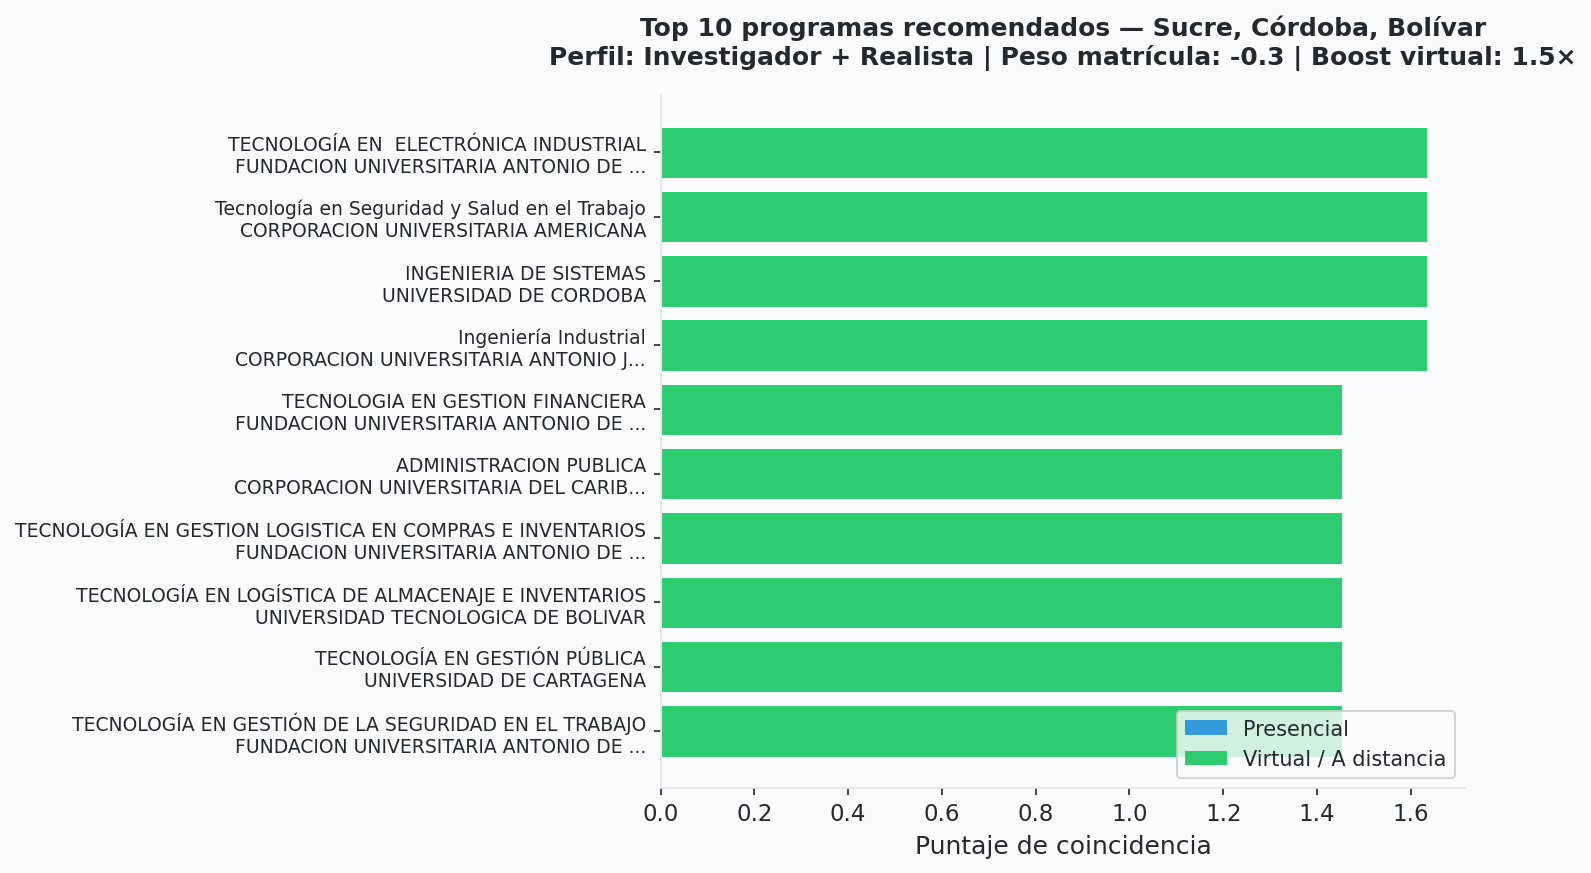
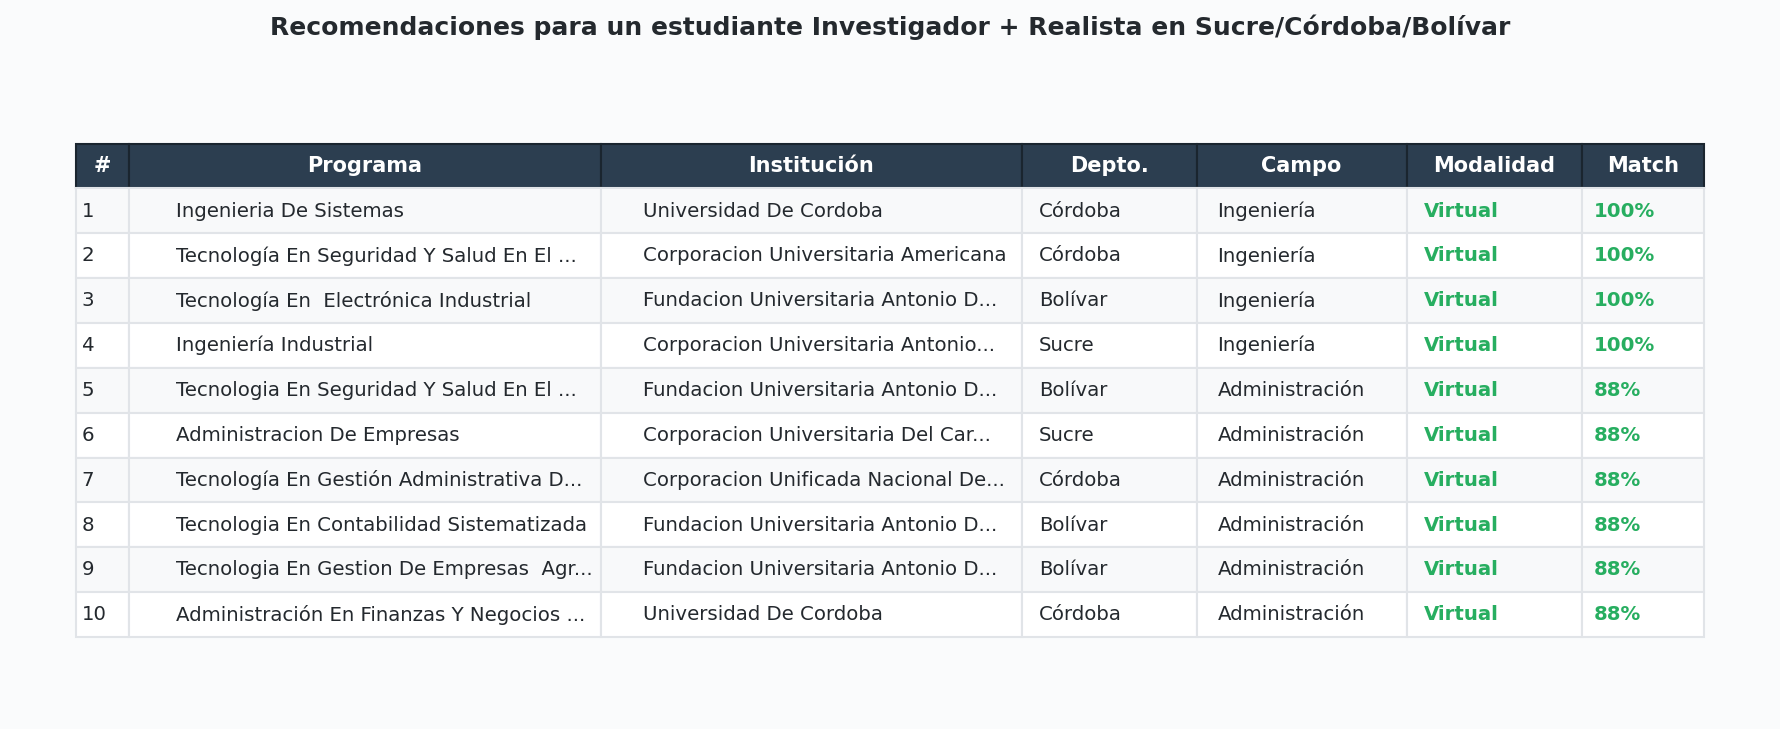
Improve showcase plots, install instructions, Bayes explainer
- Regional chart: absolute program counts (gap is undeniable)
- Recommendations: clean table with program/institution/dept/field/match%
- Install: GitHub-based install (no registry secrets needed yet)
- Both READMEs updated consistently

diff --git a/scripts/generate-showcase.py b/scripts/generate-showcase.py
@@ -170,71 +170,89 @@ def plot_cine_distribution():
 
 
 def plot_regional_comparison():
-    """Programs in San Jorge y La Mojana region vs national."""
+    """Show the access gap: programs per CINE field, region vs rest of country."""
+    import polars as pl
+
     df = Programs.active()
     region_depts = ["Sucre", "Córdoba", "Bolívar"]
 
-    region = df.filter(
-        df.get_column("departamento").is_in(region_depts)
-    )
-    national = df
+    region = df.filter(pl.col("departamento").is_in(region_depts))
+    rest = df.filter(~pl.col("departamento").is_in(region_depts))
 
-    # Count by nivel_formacion
-    niveles = ["Universitario", "Tecnológico", "Especialización universitaria",
-               "Maestría", "Formación técnica profesional", "Doctorado"]
-
-    region_counts = {}
-    national_counts = {}
-    for n in niveles:
-        region_counts[n] = len(region.filter(region.get_column("nivel_formacion") == n))
-        national_counts[n] = len(national.filter(national.get_column("nivel_formacion") == n))
-
-    # Normalize to percentages
-    region_total = sum(region_counts.values())
-    national_total = sum(national_counts.values())
-
-    short_niveles = {
-        "Universitario": "Universitario",
-        "Tecnológico": "Tecnológico",
-        "Especialización universitaria": "Especialización",
-        "Maestría": "Maestría",
-        "Formación técnica profesional": "Técnico\nprofesional",
-        "Doctorado": "Doctorado",
+    short = {
+        "Administración de Empresas y Derecho": "Administración\ny Derecho",
+        "Ingeniería, Industria y Construcción": "Ingeniería",
+        "Ciencias Sociales, Periodismo e Información": "Ciencias Sociales",
+        "Salud y Bienestar": "Salud",
+        "Arte y Humanidades": "Arte y Humanidades",
+        "Tecnologías de la Información y la Comunicación (TIC)": "TIC",
+        "Agropecuario, Silvicultura, Pesca y Veterinaria": "Agropecuario",
+        "Ciencias Naturales, Matemáticas y Estadística": "Ciencias Naturales",
+        "Educación": "Educación",
+        "Servicios": "Servicios",
     }
 
-    fig, ax = plt.subplots(figsize=(10, 5))
-    x = np.arange(len(niveles))
-    w = 0.35
+    # Get all fields, sorted by national count
+    nat_counts = (
+        rest.group_by("cine_amplio").len()
+        .sort("len", descending=True)
+    )
+    fields = [f for f in nat_counts.get_column("cine_amplio").to_list()
+              if f in short]
 
-    r_pcts = [region_counts[n] / region_total * 100 for n in niveles]
-    n_pcts = [national_counts[n] / national_total * 100 for n in niveles]
+    reg_map = dict(
+        region.group_by("cine_amplio").len()
+        .select("cine_amplio", "len").iter_rows()
+    )
+    rest_map = dict(
+        rest.group_by("cine_amplio").len()
+        .select("cine_amplio", "len").iter_rows()
+    )
 
-    bars1 = ax.bar(x - w/2, n_pcts, w, label=f"Nacional ({national_total:,})",
-                   color="#3498db", alpha=0.85, edgecolor="white")
-    bars2 = ax.bar(x + w/2, r_pcts, w,
-                   label=f"Sucre + Córdoba + Bolívar ({region_total:,})",
-                   color="#e74c3c", alpha=0.85, edgecolor="white")
+    labels = [short[f] for f in fields]
+    reg_vals = [reg_map.get(f, 0) for f in fields]
+    rest_vals = [rest_map.get(f, 0) for f in fields]
 
-    ax.set_xticks(x)
-    ax.set_xticklabels([short_niveles[n] for n in niveles], fontsize=10)
-    ax.set_ylabel("% de programas activos", fontsize=12)
-    ax.set_title("Distribución por nivel de formación: región vs. nacional",
-                 fontsize=14, fontweight="bold", pad=15)
-    ax.legend(fontsize=11, loc="upper right")
+    fig, ax = plt.subplots(figsize=(10, 5.5))
+    y = np.arange(len(fields))
+    h = 0.35
+
+    bars1 = ax.barh(y - h/2, rest_vals, h,
+                     label=f"Resto del país ({len(rest):,} programas)",
+                     color="#3498db", alpha=0.85, edgecolor="white")
+    bars2 = ax.barh(y + h/2, reg_vals, h,
+                     label=f"Sucre + Córdoba + Bolívar ({len(region):,} programas)",
+                     color="#e74c3c", alpha=0.85, edgecolor="white")
+
+    ax.set_yticks(y)
+    ax.set_yticklabels(labels, fontsize=10)
+    ax.invert_yaxis()
+    ax.set_xlabel("Programas activos", fontsize=12)
+    ax.xaxis.set_major_formatter(ticker.FuncFormatter(lambda x, p: f"{x:,.0f}"))
     ax.spines["top"].set_visible(False)
     ax.spines["right"].set_visible(False)
-    ax.yaxis.set_major_formatter(ticker.FuncFormatter(lambda x, p: f"{x:.0f}%"))
+
+    # Add count labels on regional bars
+    for bar, val in zip(bars2, reg_vals):
+        ax.text(val + 30, bar.get_y() + bar.get_height() / 2,
+                str(val), va="center", fontsize=9, color="#e74c3c", fontweight="bold")
+
+    ax.legend(fontsize=10, loc="lower right")
+    ax.set_title(
+        "Brecha de acceso: 3 departamentos, 3.5M de personas, 6% de los programas",
+        fontsize=13, fontweight="bold", pad=15
+    )
 
     plt.tight_layout()
     fig.savefig(OUT / "regional-comparison.png", dpi=150, bbox_inches="tight",
                 facecolor=BG, edgecolor="none")
     plt.close()
-    print(f"  regional-comparison.png — region: {region_total:,}, national: {national_total:,}")
-    return region_depts, region_total
+    print(f"  regional-comparison.png — region: {len(region):,}, rest: {len(rest):,}")
+    return region_depts, len(region)
 
 
 def plot_recommendations(profile, region_depts):
-    """Show top recommendations as a horizontal bar chart."""
+    """Show top recommendations as a styled table."""
     import polars as pl
 
     results = recommend(
@@ -246,49 +264,88 @@ def plot_recommendations(profile, region_depts):
         limit=10,
     )
 
-    names = results.get_column("nombre_programa").to_list()
-    scores = results.get_column("score").to_list()
-    institutions = results.get_column("nombre_institucion").to_list()
-    modalities = results.get_column("modalidad").to_list()
+    max_score = results.get_column("score").max()
 
-    # Shorten names
-    short_names = []
-    for n, inst in zip(names, institutions):
-        short_inst = inst[:35] + "..." if len(inst) > 38 else inst
-        label = f"{n}\n{short_inst}"
-        short_names.append(label)
+    # Build table data
+    rows_data = []
+    for i, row in enumerate(results.iter_rows(named=True)):
+        name = row["nombre_programa"].title()
+        if len(name) > 40:
+            name = name[:38] + "..."
+        inst = row["nombre_institucion"].title()
+        if len(inst) > 35:
+            inst = inst[:33] + "..."
+        dept = row["departamento"]
+        field = row["cine_amplio"]
+        # Shorten CINE field
+        field_short = {
+            "Ingeniería, Industria y Construcción": "Ingeniería",
+            "Administración de Empresas y Derecho": "Administración",
+            "Salud y Bienestar": "Salud",
+            "Tecnologías de la Información y la Comunicación (TIC)": "TIC",
+            "Ciencias Naturales, Matemáticas y Estadística": "Ciencias Nat.",
+            "Ciencias Sociales, Periodismo e Información": "Ciencias Soc.",
+            "Agropecuario, Silvicultura, Pesca y Veterinaria": "Agropecuario",
+            "Arte y Humanidades": "Arte",
+            "Educación": "Educación",
+            "Servicios": "Servicios",
+        }.get(field, field[:15])
+        mod = "Virtual" if row["modalidad"] in ("Virtual", "A distancia") else "Presencial"
+        pct = int(row["score"] / max_score * 100)
+        rows_data.append([f"{i+1}", name, inst, dept, field_short, mod, f"{pct}%"])
 
-    fig, ax = plt.subplots(figsize=(10, 6))
+    columns = ["#", "Programa", "Institución", "Depto.", "Campo", "Modalidad", "Match"]
+    col_widths = [0.03, 0.27, 0.24, 0.10, 0.12, 0.10, 0.07]
 
-    colors = ["#2ecc71" if m in ("Virtual", "A distancia") else "#3498db"
-              for m in modalities]
+    fig, ax = plt.subplots(figsize=(12, 5))
+    ax.axis("off")
 
-    bars = ax.barh(range(len(scores)), scores, color=colors,
-                   edgecolor="white", linewidth=0.5)
-    ax.set_yticks(range(len(short_names)))
-    ax.set_yticklabels(short_names, fontsize=9)
-    ax.invert_yaxis()
-    ax.set_xlabel("Puntaje de coincidencia", fontsize=12)
-    ax.spines["top"].set_visible(False)
-    ax.spines["right"].set_visible(False)
+    # Header
+    header_colors = ["#2c3e50"] * len(columns)
+    table = ax.table(
+        cellText=rows_data,
+        colLabels=columns,
+        colWidths=col_widths,
+        cellLoc="left",
+        loc="center",
+    )
+    table.auto_set_font_size(False)
+    table.set_fontsize(9.5)
+    table.scale(1, 1.6)
 
-    # Legend
-    from matplotlib.patches import Patch
-    legend_elements = [
-        Patch(facecolor="#3498db", label="Presencial"),
-        Patch(facecolor="#2ecc71", label="Virtual / A distancia"),
-    ]
-    ax.legend(handles=legend_elements, loc="lower right", fontsize=10)
+    # Style header
+    for j in range(len(columns)):
+        cell = table[0, j]
+        cell.set_facecolor("#2c3e50")
+        cell.set_text_props(color="white", fontweight="bold", fontsize=10)
+        cell.set_edgecolor("#1a252f")
 
-    ax.set_title("Top 10 programas recomendados — Sucre, Córdoba, Bolívar\n"
-                 "Perfil: Investigador + Realista | Peso matrícula: -0.3 | Boost virtual: 1.5×",
-                 fontsize=12, fontweight="bold", pad=15)
+    # Style data rows
+    for i in range(len(rows_data)):
+        bg = "#f8f9fa" if i % 2 == 0 else "white"
+        for j in range(len(columns)):
+            cell = table[i + 1, j]
+            cell.set_facecolor(bg)
+            cell.set_edgecolor("#e1e4e8")
+            # Color the match percentage
+            if j == len(columns) - 1:
+                cell.set_text_props(fontweight="bold", color="#27ae60")
+            # Color virtual/presencial
+            if j == len(columns) - 2:
+                mod_val = rows_data[i][j]
+                color = "#27ae60" if mod_val == "Virtual" else "#3498db"
+                cell.set_text_props(color=color, fontweight="bold")
+
+    ax.set_title(
+        "Recomendaciones para un estudiante Investigador + Realista en Sucre/Córdoba/Bolívar",
+        fontsize=12, fontweight="bold", pad=15, color=TEXT_COLOR
+    )
 
     plt.tight_layout()
     fig.savefig(OUT / "recommendations.png", dpi=150, bbox_inches="tight",
                 facecolor=BG, edgecolor="none")
     plt.close()
-    print(f"  recommendations.png — {len(scores)} programs")
+    print(f"  recommendations.png — {len(rows_data)} programs (table)")
 
 
 def plot_adaptive_convergence():

diff --git a/README.md b/README.md
@@ -57,14 +57,15 @@ Los priors por matrícula penalizan campos sobresaturados (Administración y Der
 ## Instalar
 
 ```bash
-# TypeScript / JavaScript
-npm install @riasec-co/core
-npm install @riasec-co/react  # Componentes React (opcional)
+# TypeScript / JavaScript — desde GitHub
+npm install github:afromero/riasec-co#main --workspace=packages/core
 
-# Python
-uv add riasec-co              # o: pip install riasec-co
+# Python — desde GitHub
+pip install "riasec-co @ git+https://github.com/afromero/riasec-co.git#subdirectory=python"
+```
 
-# R
+```r
+# R — desde GitHub
 remotes::install_github("afromero/riasec-co", subdir = "r")
 ```
 

diff --git a/README.en.md b/README.en.md
@@ -57,14 +57,15 @@ Enrollment-weighted priors downweight oversaturated fields (Administracion y Der
 ## Install
 
 ```bash
-# TypeScript / JavaScript
-npm install @riasec-co/core
-npm install @riasec-co/react  # React components (optional)
+# TypeScript / JavaScript — from GitHub
+npm install github:afromero/riasec-co#main --workspace=packages/core
 
-# Python
-uv add riasec-co              # or: pip install riasec-co
+# Python — from GitHub
+pip install "riasec-co @ git+https://github.com/afromero/riasec-co.git#subdirectory=python"
+```
 
-# R
+```r
+# R — from GitHub
 remotes::install_github("afromero/riasec-co", subdir = "r")
 ```
 
